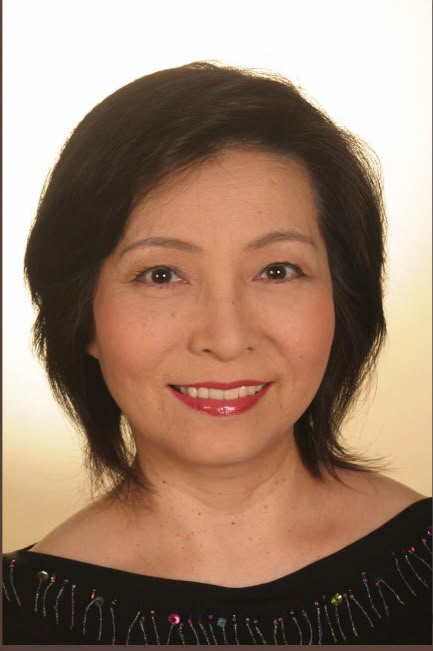
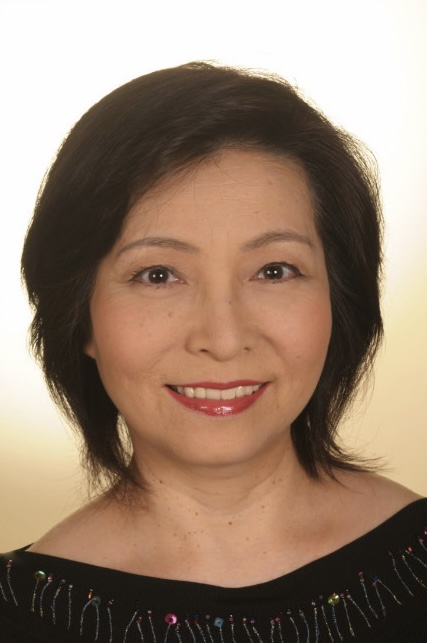
Corrected a typo and photo

diff --git a/abend-deutscher-musik-2026/profiles.html b/abend-deutscher-musik-2026/profiles.html
@@ -53,7 +53,7 @@
                 鹿児島短期大学（現・鹿児島国際大学）音楽科および専攻科を卒業。読売新聞社主催新人演奏会に出演（東京文化会館）。その後ドイツへ渡り、フライブルク国立音楽大学に留学。
               </p>
               <p>
-                1994年、パリ・ユネスコホールにてブラームス《ドイツ・レクイエム》のソプラノ・ソロを務め好評を博す。翌1995年にはパリのサン・ロック教会でも演奏。1997年、ドイツ国立歌劇場マインツのオーディションにて、ヴェルディ《仮面舞踏会》のオスカル役に選ばれ、オペラに界デビュー。その後、同劇場にてモーツァルト、オッフェンバック、プーランクなどの作品に出演し、ヴュルツブルク州立歌劇場でも数多くの舞台を経験する。
+                1994年、パリ・ユネスコホールにてブラームス《ドイツ・レクイエム》のソプラノ・ソロを務め好評を博す。翌1995年にはパリのサン・ロック教会でも演奏。1997年、ドイツ国立歌劇場マインツのオーディションにて、ヴェルディ《仮面舞踏会》のオスカル役に選ばれ、オペラ界にデビュー。その後、同劇場にてモーツァルト、オッフェンバック、プーランクなどの作品に出演し、ヴュルツブルク州立歌劇場でも数多くの舞台を経験する。
               </p>
               <p>
                 ドイツを中心に、オラトリオ・カンタータなどの宗教曲をはじめ、リート、室内楽、ガラ・コンサート、音楽祭など幅広く活動。マインツ大聖堂、ヴォルムスのドライファルティヒカイツ教会、フランクフルトのリープフラウエン教会、ハイリヒガイスト教会などで宗教曲のソロを務めるほか、ギュルツェニヒ管弦楽団（ケルン）との共演、モーツァルト協会主催コンサートへの出演など、多彩な演奏活動を行っている。フランクフルト総領事館主催の天皇誕生日祝賀会では、日独両国歌の独唱を務めた。
